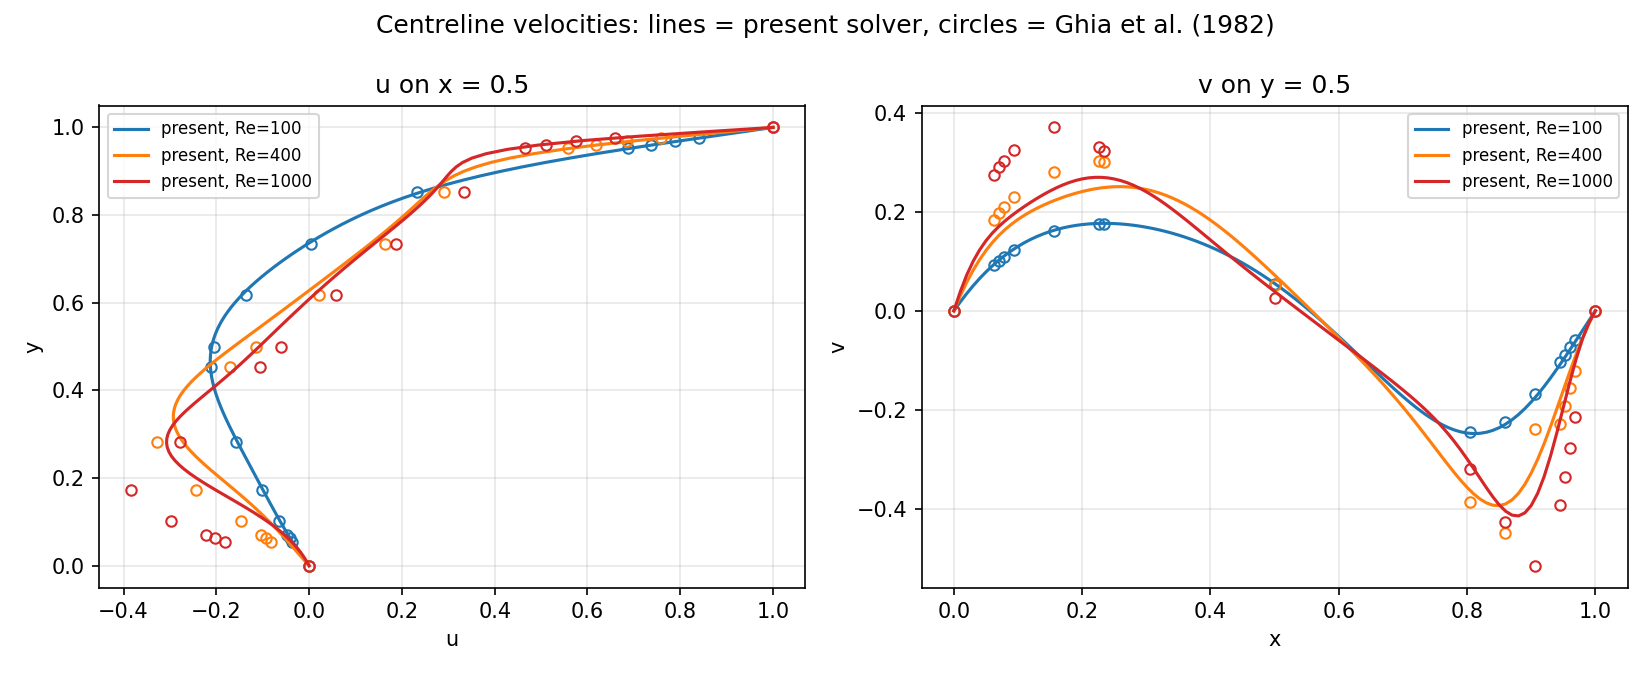
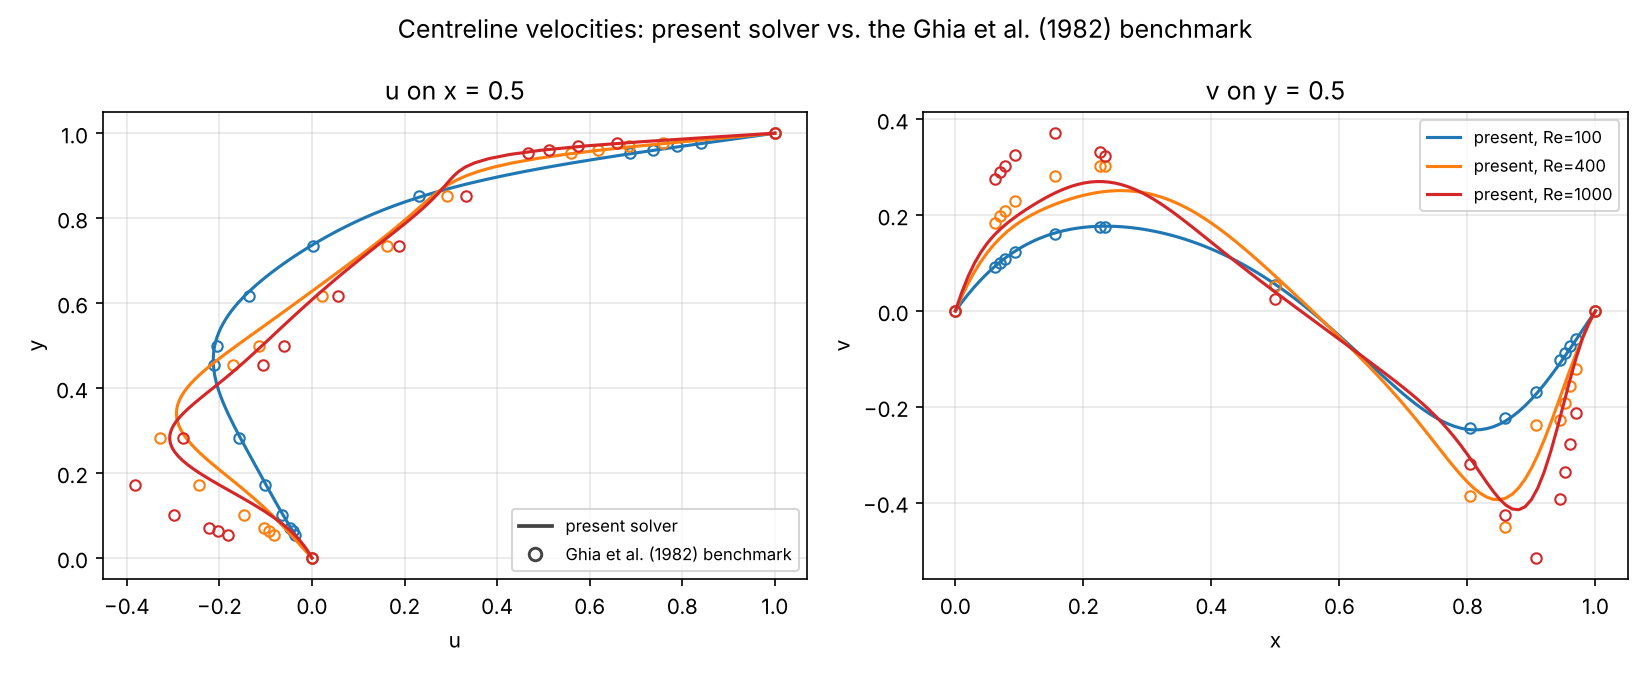
docs: label the benchmark data explicitly; correct the nu_num/nu crossing interval
The centreline figures stated 'circles = Ghia' only in the title; both now
carry an in-plot legend for the symbols as well as the colours.

The ratio nu_num/nu crosses 1 between Re=100 and Re=400, not between 400
and 1000 as previously written. Corrected in the root README, module 06
README and its theory note.

Also: navigation between the six modules, captions on module 06's figures,
module 02 experiments README, module 05 closing section updated.

diff --git a/figures/make_hero.py b/figures/make_hero.py
@@ -174,7 +174,26 @@ leg = ax[1].legend(frameon=False, fontsize=9.5, loc="upper right")
 for t in leg.get_texts():
     t.set_color(INK_MUTED)
 
-fig.suptitle("Validation against Ghia, Ghia & Shin (1982)   —   lines: present solver   ·   circles: benchmark",
+# A second legend explaining the SYMBOLS, not the colours. Without it the only
+# statement that circles are the benchmark lives in the figure title, which is
+# easy to miss — the first person to read this figure asked where Ghia's data
+# was.
+from matplotlib.lines import Line2D  # noqa: E402
+
+sym = [
+    Line2D([0], [0], color="#444444", lw=2.0,
+           label="present solver"),
+    Line2D([0], [0], marker="o", color="none", mec="#444444", mew=1.6,
+           ms=7, ls="none", label="Ghia et al. (1982) benchmark"),
+]
+leg2 = ax[0].legend(handles=sym, frameon=True, fontsize=9.5,
+                    loc="lower right", handletextpad=0.8, borderpad=0.7)
+leg2.get_frame().set_edgecolor(GRID)
+leg2.get_frame().set_facecolor(SURFACE)
+for t in leg2.get_texts():
+    t.set_color(INK)
+
+fig.suptitle("Centreline velocities: present solver vs. the Ghia, Ghia & Shin (1982) benchmark",
              color=INK, fontsize=12.5, y=0.99)
 fig.tight_layout(rect=[0, 0, 1, 0.945])
 fig.savefig(os.path.join(OUT, "validation.png"), dpi=170,

diff --git a/06-lid-driven-cavity/runs/make_figures.py b/06-lid-driven-cavity/runs/make_figures.py
@@ -31,8 +31,20 @@ for Re, r in sorted(runs.items()):
 ax[0].set_xlabel("u"); ax[0].set_ylabel("y"); ax[0].set_title("u on x = 0.5")
 ax[1].set_xlabel("x"); ax[1].set_ylabel("v"); ax[1].set_title("v on y = 0.5")
 for a in ax:
-    a.grid(alpha=0.3); a.legend(fontsize=8)
-fig.suptitle("Centreline velocities: lines = present solver, circles = Ghia et al. (1982)")
+    a.grid(alpha=0.3)
+ax[1].legend(fontsize=8)
+
+# A legend for the SYMBOLS as well as the colours. Stating "circles = Ghia"
+# only in the figure title is not enough -- the first person to read this plot
+# asked where the benchmark data was.
+from matplotlib.lines import Line2D
+ax[0].legend(handles=[
+    Line2D([0], [0], color="#444444", lw=1.8, label="present solver"),
+    Line2D([0], [0], marker="o", color="none", mec="#444444", mew=1.4,
+           ms=6, ls="none", label="Ghia et al. (1982) benchmark"),
+], fontsize=8, loc="lower right")
+
+fig.suptitle("Centreline velocities: present solver vs. the Ghia et al. (1982) benchmark")
 fig.tight_layout(); fig.savefig("figures/centreline_validation.png", dpi=150)
 print("figures/centreline_validation.png")
 

diff --git a/README.md b/README.md
@@ -38,9 +38,12 @@ power series; every algebraic step is shown.
 
 ![Centreline velocities against Ghia, Ghia & Shin (1982)](figures/validation.png)
 
-Centreline velocities on a 101×101 grid, interpolated to Ghia's tabulated
-coordinates. Blue sits on the benchmark. Red does not — and the rest of this
-section is about why that was predictable.
+**Solid lines are this solver. Open circles are Ghia's published benchmark
+values.** Centreline velocities on a 101×101 grid, interpolated to Ghia's
+tabulated coordinates.
+
+At Re = 100 the circles sit on the line. At Re = 1000 they do not — and the rest
+of this section is about why that was predictable.
 
 | Re | u-centreline RMSE | `ψ_min` present | `ψ_min` Ghia | error | vortex position error |
 |---|---|---|---|---|---|
